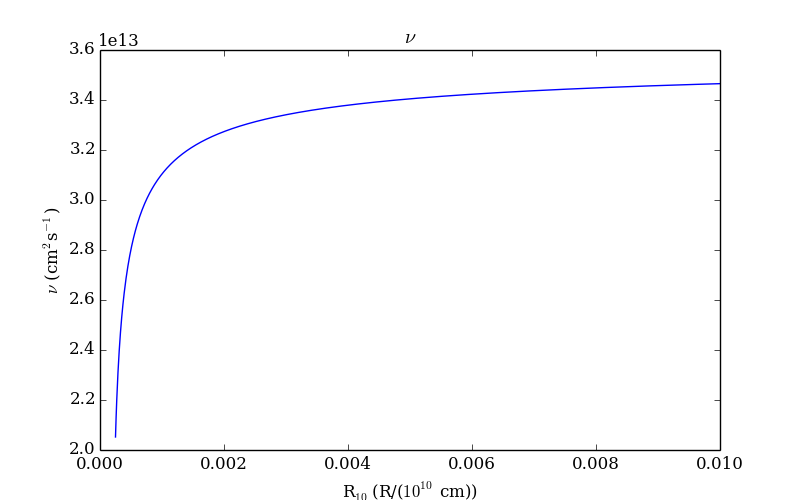
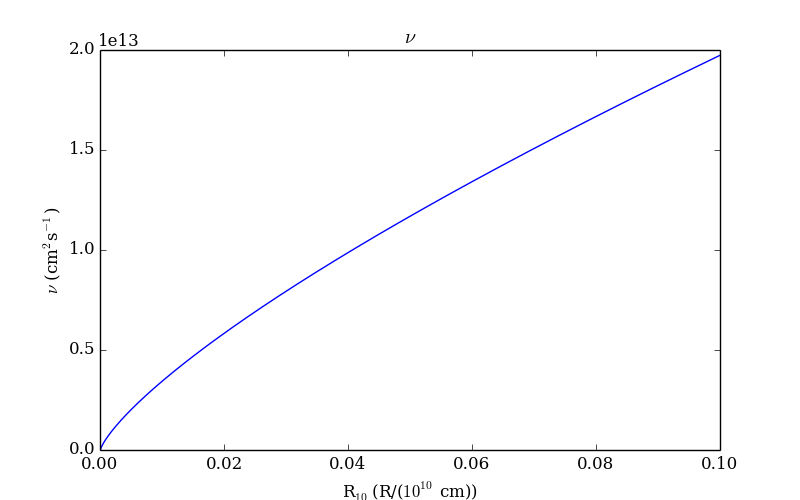
corrected

diff --git a/modeling/kamensky/plot.py b/modeling/kamensky/plot.py
@@ -2,12 +2,12 @@ from pylab import *
 import numpy as np
 
 m1 = 5.0 			# central mass
-alfa = 1.0			# accretion parameter
-mass_flow = 0.9			# mass flow from disk
-Rc = 2.0*10.0**-4		# diameter of central object /10**10cm
+alfa = 0.5			# accretion parameter
+mass_flow = 5.0		# mass flow from disk
+Rc = 1.0*10.0**-4		# diameter of central object /10**10cm
 
-Ri = 2.5*10.0**-4		# inner radius
-Rf = 10.0**-2			# outer radius
+Ri = 1.1*10.0**-4		# inner radius
+Rf = 10.0**-1			# outer radius
 Rstep = 0.00001			# step for computing
 
 R_x = []
@@ -19,17 +19,19 @@ Tc = []				# temperature
 TAU = []			# opacity
 NI = []				# viscosity
 Vr = []				# radial speed
+Fx = []
 
 for R in np.arange(Ri,Rf,Rstep):
 	R_x.append(R)
 	f = (1.0-(Rc/R)**(0.5))**(0.25)
-	SIGMA.append(5.2*alfa**(-4/5)*mass_flow**(7/10)*m1**(1/4)*R**(-3/4)*f**(14/5))
-	H.append(1.7*10**8*alfa**(-1/10)*mass_flow**(3/20)*m1**(-3/8)*R**(9/8)*f**(3/5))
-	RHO.append(3.1*10**(-8)*alfa**(-7/10)*mass_flow**(11/20)*m1**(5/8)*R**(-15/8)*f**(11/5))
-	Tc.append(1.4*10**4*alfa**(-1/5)*mass_flow**(3/10)*m1**(1/4)*R**(-3/4)*f**(6/5))
-	TAU.append(190.0*alfa**(-4/5)*mass_flow**(1/5)*f**(4/5))
-	NI.append(1.8*10**14*alfa**(4/5)*mass_flow**(3/10)*m1**(-1/4)*R**(3/4)*f**(6/5))
-	Vr.append(2.7*10**4*alfa**(4/5)*mass_flow**(3/10)*m1**(-1/4)*R**(-1/4)*f**(-14/5))
+	Fx.append(f)
+	SIGMA.append(5.2*alfa**(-4.0/5)*mass_flow**(7.0/10)*m1**(1.0/4)*R**(-3.0/4)*f**(14.0/5))
+	H.append(1.7*10.0**8.0*alfa**(-1.0/10)*mass_flow**(3.0/20)*m1**(-3.0/8)*R**(9.0/8)*f**(3.0/5))
+	RHO.append(3.1*10.0**(-8.0)*alfa**(-7.0/10)*mass_flow**(11.0/20)*m1**(5.0/8)*R**(-15.0/8)*f**(11.0/5))
+	Tc.append(1.4*10.0**4.0*alfa**(-1.0/5)*mass_flow**(3.0/10)*m1**(1.0/4)*R**(-3.0/4)*f**(6.0/5))
+	TAU.append(190.0*alfa**(-4.0/5)*mass_flow**(1.0/5)*f**(4.0/5))
+	NI.append(1.8*10.0**14.0*alfa**(4.0/5)*mass_flow**(3.0/10)*m1**(-1.0/4)*R**(3.0/4)*f**(6.0/5))
+	Vr.append(2.7*10.0**4.0*alfa**(4.0/5)*mass_flow**(3.0/10)*m1**(-1.0/4)*R**(-1.0/4)*f**(-14.0/5))
 	
 matplotlib.rcParams.update({'font.size': 12, 'font.family': 'serif'})
 
@@ -39,6 +41,13 @@ xlabel('R$_{10}$ (R/($10^{10}$ cm))')
 ylabel('$\Sigma$ (g.cm$^{-2}$)')
 plot(R_x,SIGMA)
 savefig("SIGMA.png")
+
+figure(figsize=(8,5))
+title('f')
+xlabel('R$_{10}$ (R/($10^{10}$ cm))')
+ylabel('f')
+plot(R_x,Fx)
+savefig("f.png")
 
 
 figure(figsize=(8,5))
